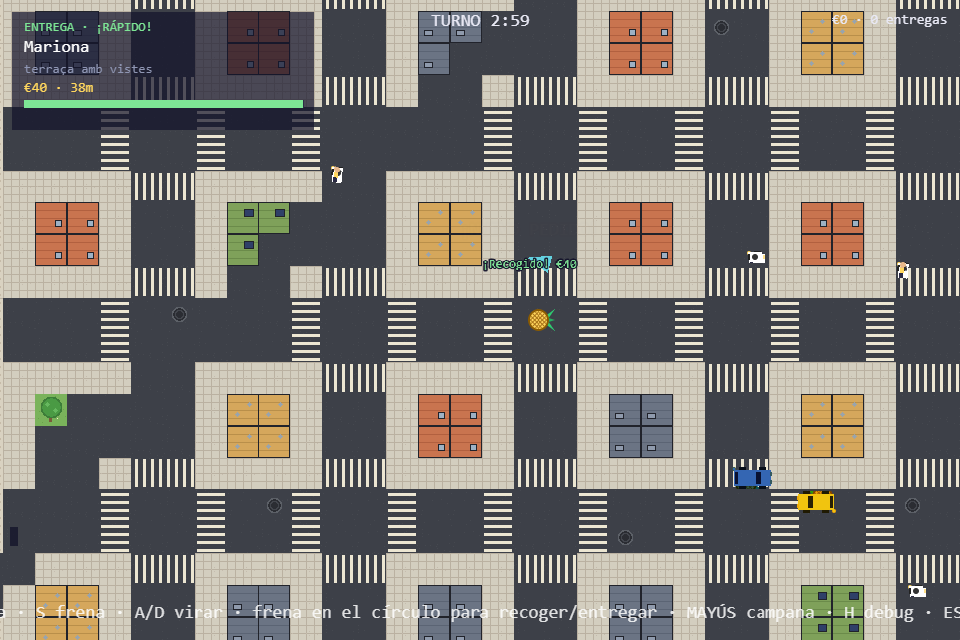
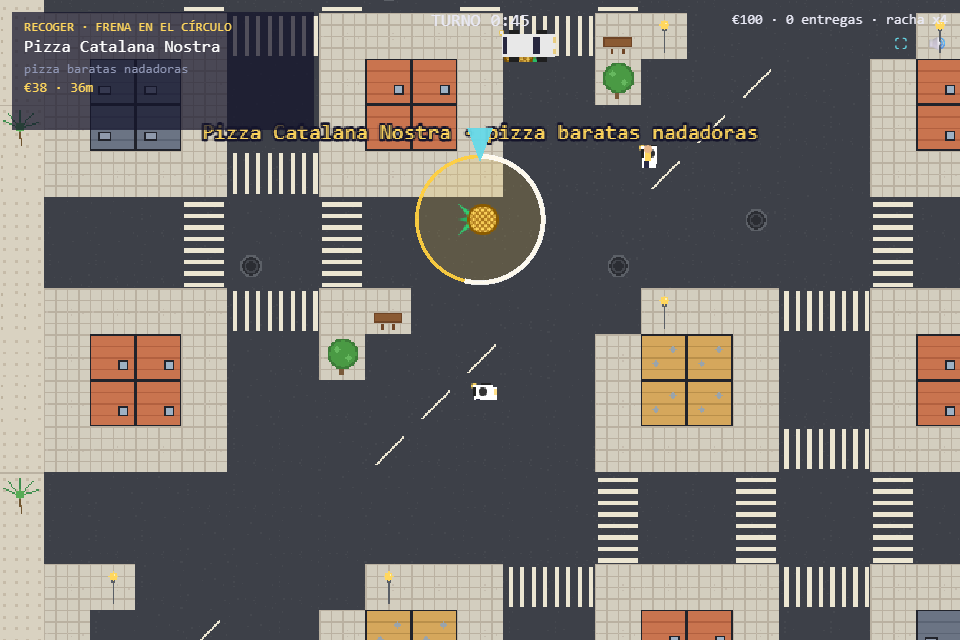
feat(m13.2): promo refresh — re-shot screenshots, new draft-surge gameplay GIF, v1.2 landing copy

diff --git a/pages/index.html b/pages/index.html
@@ -105,20 +105,20 @@
     <h2>Capturas</h2>
     <div class="grid">
       <a href="promo/shot-ride.png" target="_blank">
-        <img src="promo/shot-ride.png" alt="Paseo a toda velocidad por el Eixample" />
-        <p class="caps">A tope por el Eixample, derrapando entre el tráfico</p>
+        <img src="promo/shot-ride.png" alt="A tope por la diagonal junto al tráfico" />
+        <p class="caps">La Diagonal a fondo, derrapando entre el tráfico</p>
       </a>
       <a href="promo/shot-pickup.png" target="_blank">
         <img src="promo/shot-pickup.png" alt="Recogida de un pedido" />
-        <p class="caps">Pedido recogido · ¡RAPIDÍSSIM! tiempo a favor</p>
+        <p class="caps">Pedido en el aro de recogida · frena para aceptar</p>
       </a>
       <a href="promo/shot-delivery.png" target="_blank">
-        <img src="promo/shot-delivery.png" alt="Entrega cobrada junto a la Sagrada Família" />
-        <p class="caps">Entrega cobrada a la sombra de la Sagrada Família</p>
+        <img src="promo/shot-delivery.png" alt="Entrega cobrada junto a la playa" />
+        <p class="caps">Entrega cobrada en la Barceloneta · +9s de bonus al reloj</p>
       </a>
       <a href="promo/shot-results.png" target="_blank">
-        <img src="promo/shot-results.png" alt="Tarjeta de fin de turno con rango B" />
-        <p class="caps">Fin de turno: rango, propinas y récord</p>
+        <img src="promo/shot-results.png" alt="Tarjeta de fin de turno con rango S" />
+        <p class="caps">Fin de turno: rango, propinas y bonus por entregas</p>
       </a>
       <a href="promo/shot-menu.png" target="_blank">
         <img src="promo/shot-menu.png" alt="Menú principal" />
@@ -130,6 +130,7 @@
     <ul>
       <li>Arcade estilo <i>Crazy Taxi</i>: entregas contrarreloj pedaleando por una Barcelona 2048×1536 con Sagrada Família, Glòries y la Rambla.</li>
       <li>Cola por calles: coches y patinetes, casi-accidentes misericordiosos, campanilla (<b>MAYÚS</b>) y caos garantizado.</li>
+      <li><b>Rebuje</b>: engánchate a la estela de un coche — el medidor se llena y el turbo te lanza por la avenida.</li>
       <li>Tiendas y clientes bilingües (ES/CA): desde <i>bocata mixto</i> hasta <i>fideuà a la mar</i>.</li>
       <li>Javascript + Phaser 3.90 vía import map — cero dependencias, cero build.</li>
     </ul>
